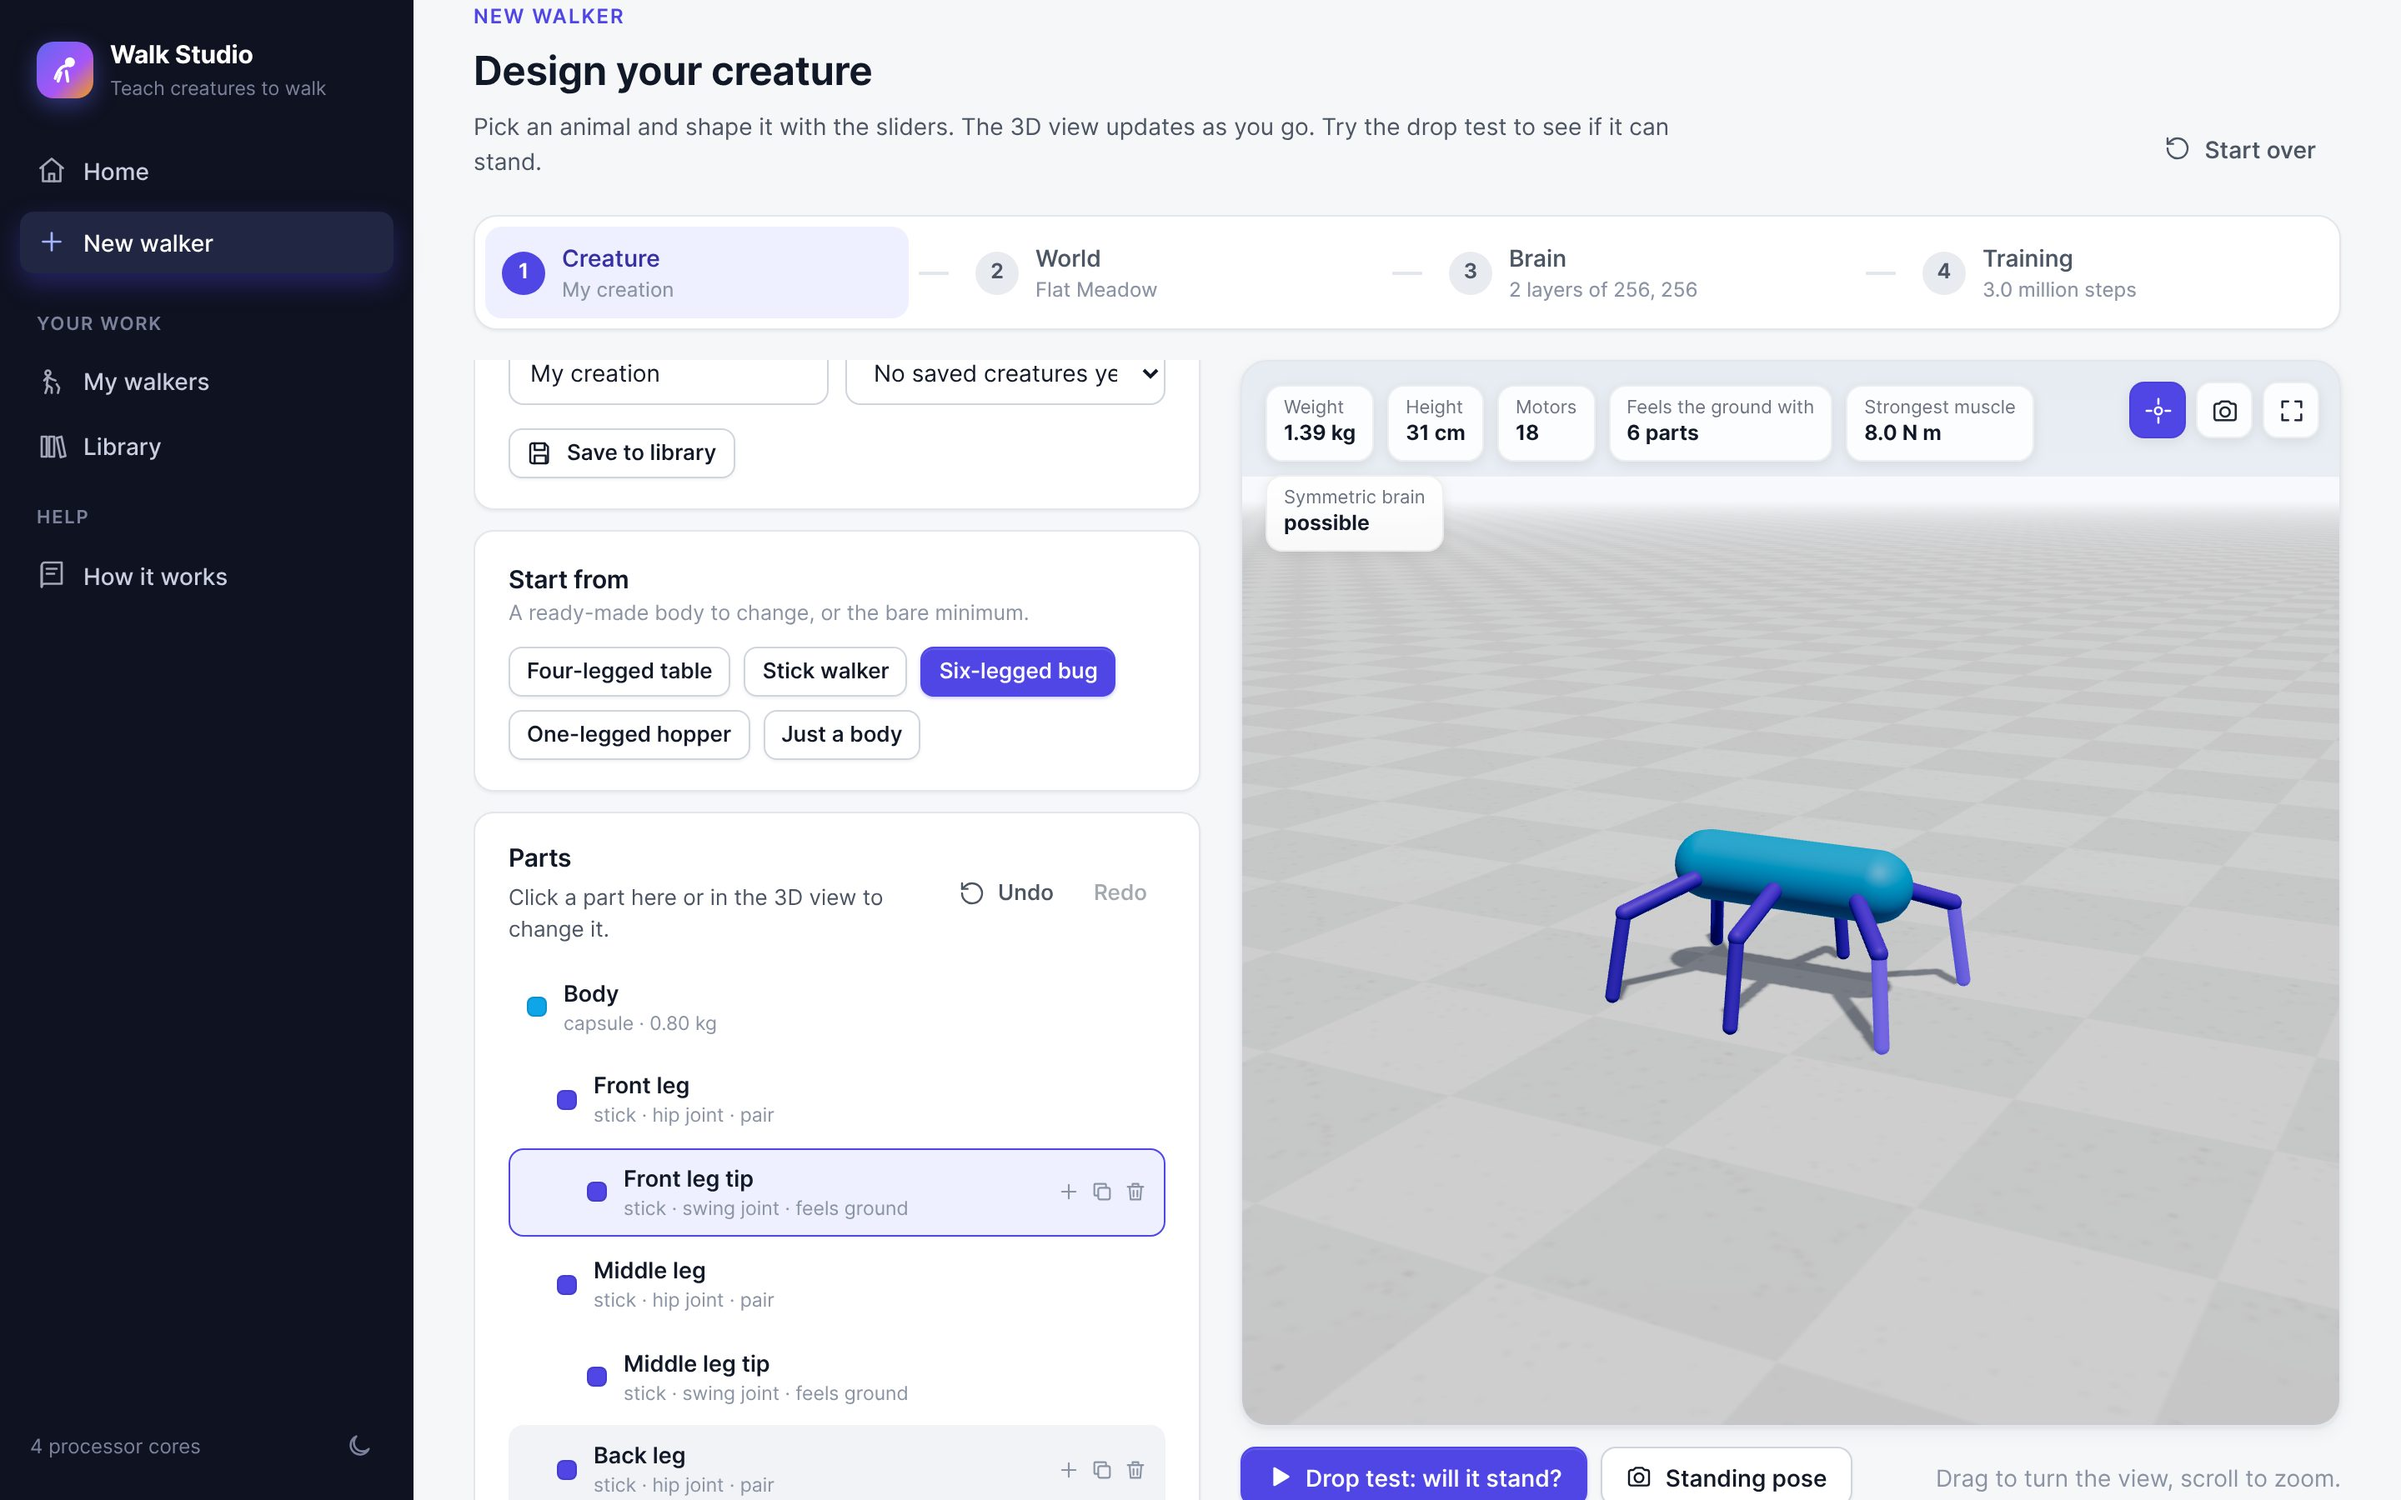
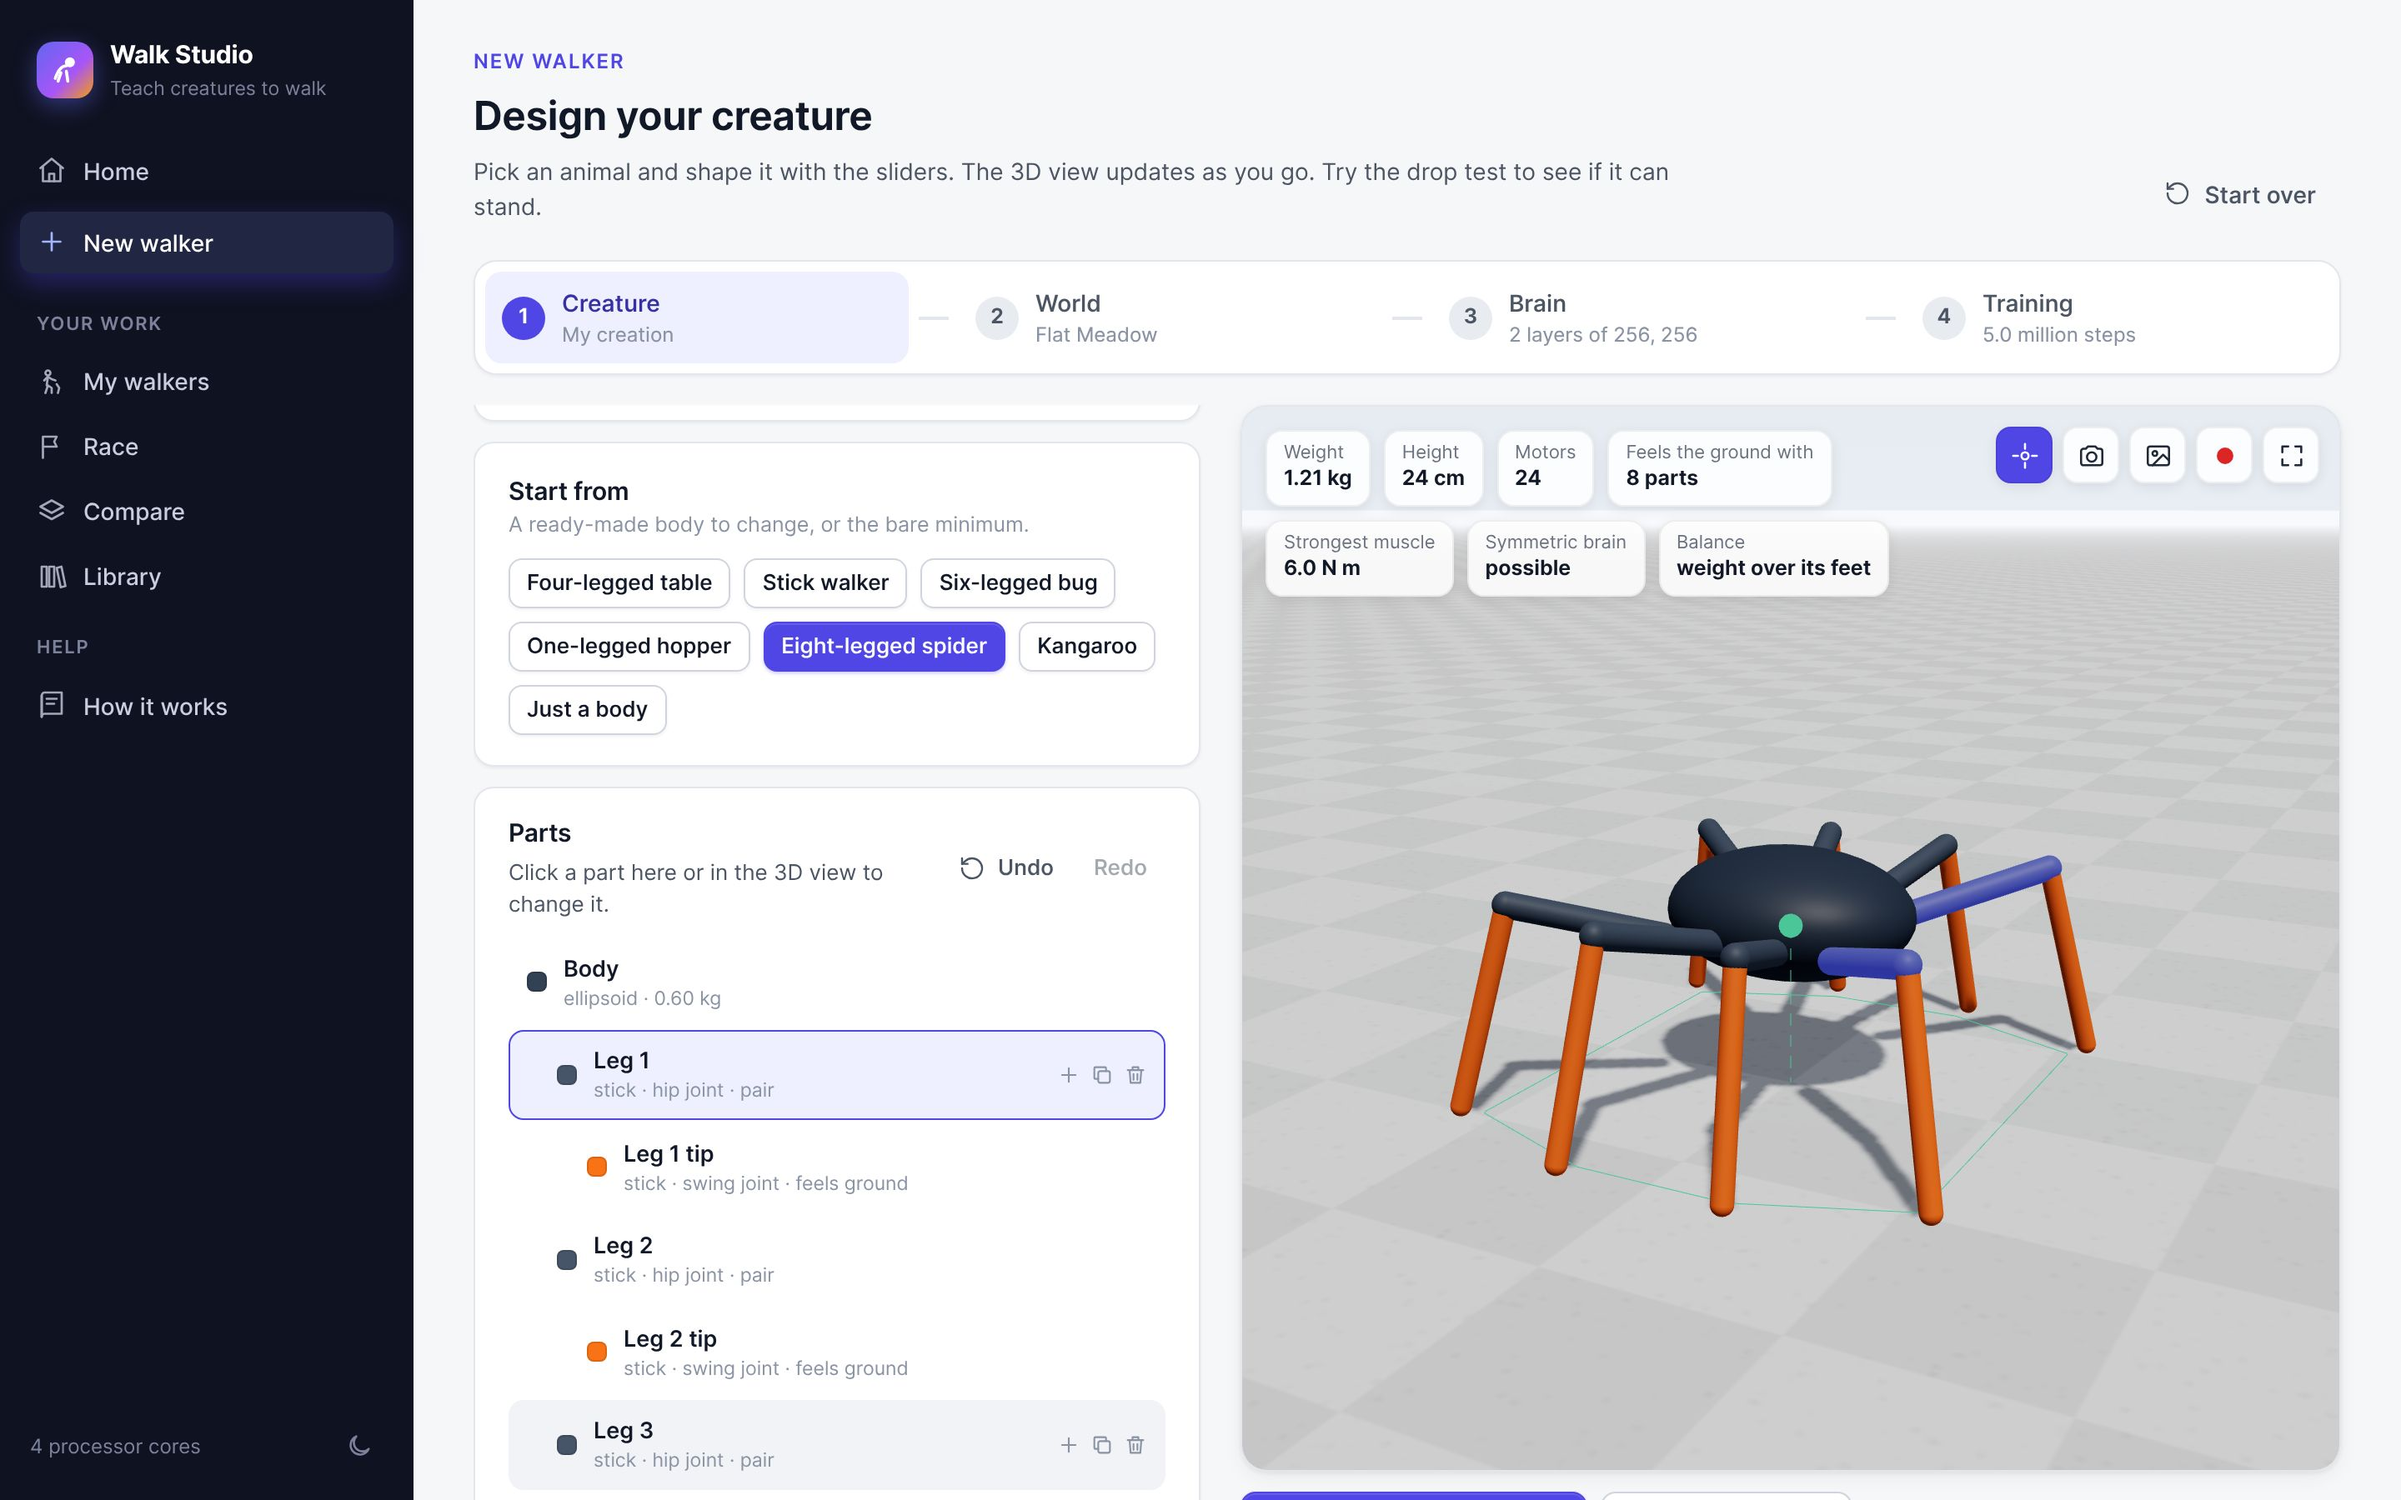
Show only the newest preview or drive when answers arrive out of order; refresh the README pictures
Claude-Session: https://claude.ai/code/session_018W1SX6cEKsbShUXcgx6KDd

diff --git a/studio/web/js/pages/walker.js b/studio/web/js/pages/walker.js
@@ -375,7 +375,10 @@ async function driveTab(body, id, details, setup) {
 
   const result = h("div");
   const runButton = h("button", { class: "btn primary big", style: { width: "100%" }, html: `${icon.play}<span>Drive</span>` });
+  let latest = 0;
   const run = async () => {
+    const request = ++latest;  // only the newest drive is shown, even if an older one answers later
+    const asked = chosen;
     runButton.disabled = true;
     viewer.setLoading(true);
     try {
@@ -383,19 +386,22 @@ async function driveTab(body, id, details, setup) {
       const replay = await api(`trainings/${id}/watch`, { method: "POST", body: {
         world: { ...chosen, values: { ...v, attempt_seconds: Math.max(v.attempt_seconds, drive.seconds) } }, speed: drive.speed,
         height: (drive.height || 0) / 100, seed: drive.seed, seconds: drive.seconds, turn: drive.turn } });
+      if (request !== latest || viewer.disposed) return;
       viewer.load(replay);
       gait.show(replay);
       const s = replay.stats;
-      viewer.setChips([["World", chosen.name], ["Result", s.fell ? `fell after ${fmtNumber(s.seconds, 1)} s` : `walked all ${fmtNumber(s.seconds, 0)} s`],
+      viewer.setChips([["World", asked.name], ["Result", s.fell ? `fell after ${fmtNumber(s.seconds, 1)} s` : `walked all ${fmtNumber(s.seconds, 0)} s`],
         ["Distance", `${fmtNumber(s.distance, 2)} m`], ["Speed", `${fmtNumber(s.average_speed, 2)} of ${fmtNumber(s.target_speed, 2)} m/s`]]);
       result.replaceChildren(h("div", { class: `callout ${s.fell ? "warn" : "good"}`, html: `${icon.info}<div>${s.fell
         ? `It fell after ${fmtNumber(s.seconds, 1)} seconds, ${fmtNumber(s.distance, 2)} m from the start.`
         : `It stayed up for all ${fmtNumber(s.seconds, 0)} seconds and went ${fmtNumber(s.distance, 2)} m, at ${fmtNumber(s.average_speed, 2)} m/s (asked: ${fmtNumber(s.target_speed, 2)}).`}${s.rock_hits ? ` Rocks hit it ${s.rock_hits} times.` : ""} The blue ring moves at the asked speed.</div>` }));
     } catch (error) {
-      toast("The drive failed", error.message, "bad");
+      if (request === latest) toast("The drive failed", error.message, "bad");
     } finally {
-      runButton.disabled = false;
-      viewer.setLoading(false);
+      if (request === latest) {
+        runButton.disabled = false;
+        viewer.setLoading(false);
+      }
     }
   };
   runButton.addEventListener("click", run);
@@ -476,10 +482,13 @@ export async function reportTab(body, id, details) {
   const viewer = new Viewer(viewerBox, { pace: true });
   viewer.showMessage("Click a level below to watch that attempt.");
 
+  let latestLevel = 0;
   const watchLevel = async (challenge, level) => {
+    const request = ++latestLevel;
     viewer.setLoading(true);
     try {
       const result = await api(`trainings/${id}/challenges/${challenge.key}`, { method: "POST", body: { level: level.level } });
+      if (request !== latestLevel || viewer.disposed) return;
       viewer.showMessage("");
       viewer.load(result.replay);
       viewer.setChips([[challenge.title, `${fmtNumber(level.level, 1)} ${challenge.unit}`],

diff --git a/studio/web/js/pages/wizard.js b/studio/web/js/pages/wizard.js
@@ -135,10 +135,13 @@ async function creatureStep(body, draft) {
   const viewer = new Viewer(stageBox, { autoplay: true, loop: false });
   const animal = store.animal(draft.creature.animal);
 
+  let latest = 0;  // only the newest preview is shown, even if an older one answers later
   const refresh = async (reframe = false) => {
+    const request = ++latest;
     viewer.setLoading(true);
     try {
       const preview = await api("preview/creature", { method: "POST", body: { animal: draft.creature.animal, values: draft.creature.values } });
+      if (request !== latest || viewer.disposed) return;
       viewer.load(preview, { keepCamera: !reframe && viewer.lastAnimal === draft.creature.animal });
       viewer.lastAnimal = draft.creature.animal;
       const facts = preview.facts;
@@ -159,9 +162,11 @@ async function creatureStep(body, draft) {
   const refreshSoon = debounce(() => refresh(false), 140);
 
   const dropTest = async () => {
+    const request = ++latest;
     viewer.setLoading(true);
     try {
       const replay = await api("preview/drop", { method: "POST", body: { animal: draft.creature.animal, values: draft.creature.values, seconds: 4 } });
+      if (request !== latest || viewer.disposed) return;
       viewer.load(replay, { keepCamera: true });
       viewer.lastAnimal = draft.creature.animal;
       const stats = replay.stats;
@@ -280,10 +285,13 @@ async function worldStep(body, draft) {
   const catalog = store.catalog;
   const worldDefaults = Object.fromEntries(catalog.world_groups.flatMap((group) => group.settings.map((s) => [s.key, s.default])));
 
+  let latest = 0;
   const show = async () => {
+    const request = ++latest;
     viewer.setLoading(true);
     try {
       const replay = await api("preview/drop", { method: "POST", body: { animal: draft.creature.animal, values: draft.creature.values, world: draft.world, seconds: 3 } });
+      if (request !== latest || viewer.disposed) return;
       viewer.load(replay);
       const v = draft.world.values;
       const terrainName = (catalog.world_groups[0].settings[0].choices.find((c) => c.value === v.terrain) || {}).label;

diff --git a/README.md b/README.md
@@ -4,7 +4,7 @@ Design a creature, build its world, shape its brain, and watch it teach itself t
 
 Walk Studio is a point-and-click version of the [learn_to_walk](https://github.com/pacomc999/learn_to_walk) project: the same physics (MuJoCo), the same learning (PPO with a left/right symmetric brain), and the same duck, now with a puppy, a build-your-own creature kit and nine worlds to train in.
 
-![Designing a creature](docs/images/creature.jpg)
+![Your walkers](docs/images/walkers.jpg)
 
 ## Starting it
 
@@ -63,7 +63,13 @@ You also design its **scoring**: points for moving forward (exactly at the asked
 
 ![Building your own creature](docs/images/builder.jpg)
 
-![Following a training](docs/images/training.jpg)
+![Choosing a world and its scoring](docs/images/world.jpg)
+
+![A test drive, with the gait, the brain at work and the muscle commands](docs/images/drive.jpg)
+
+![The report card](docs/images/report.jpg)
+
+![A race](docs/images/race.jpg)
 
 ## How long training takes
 
